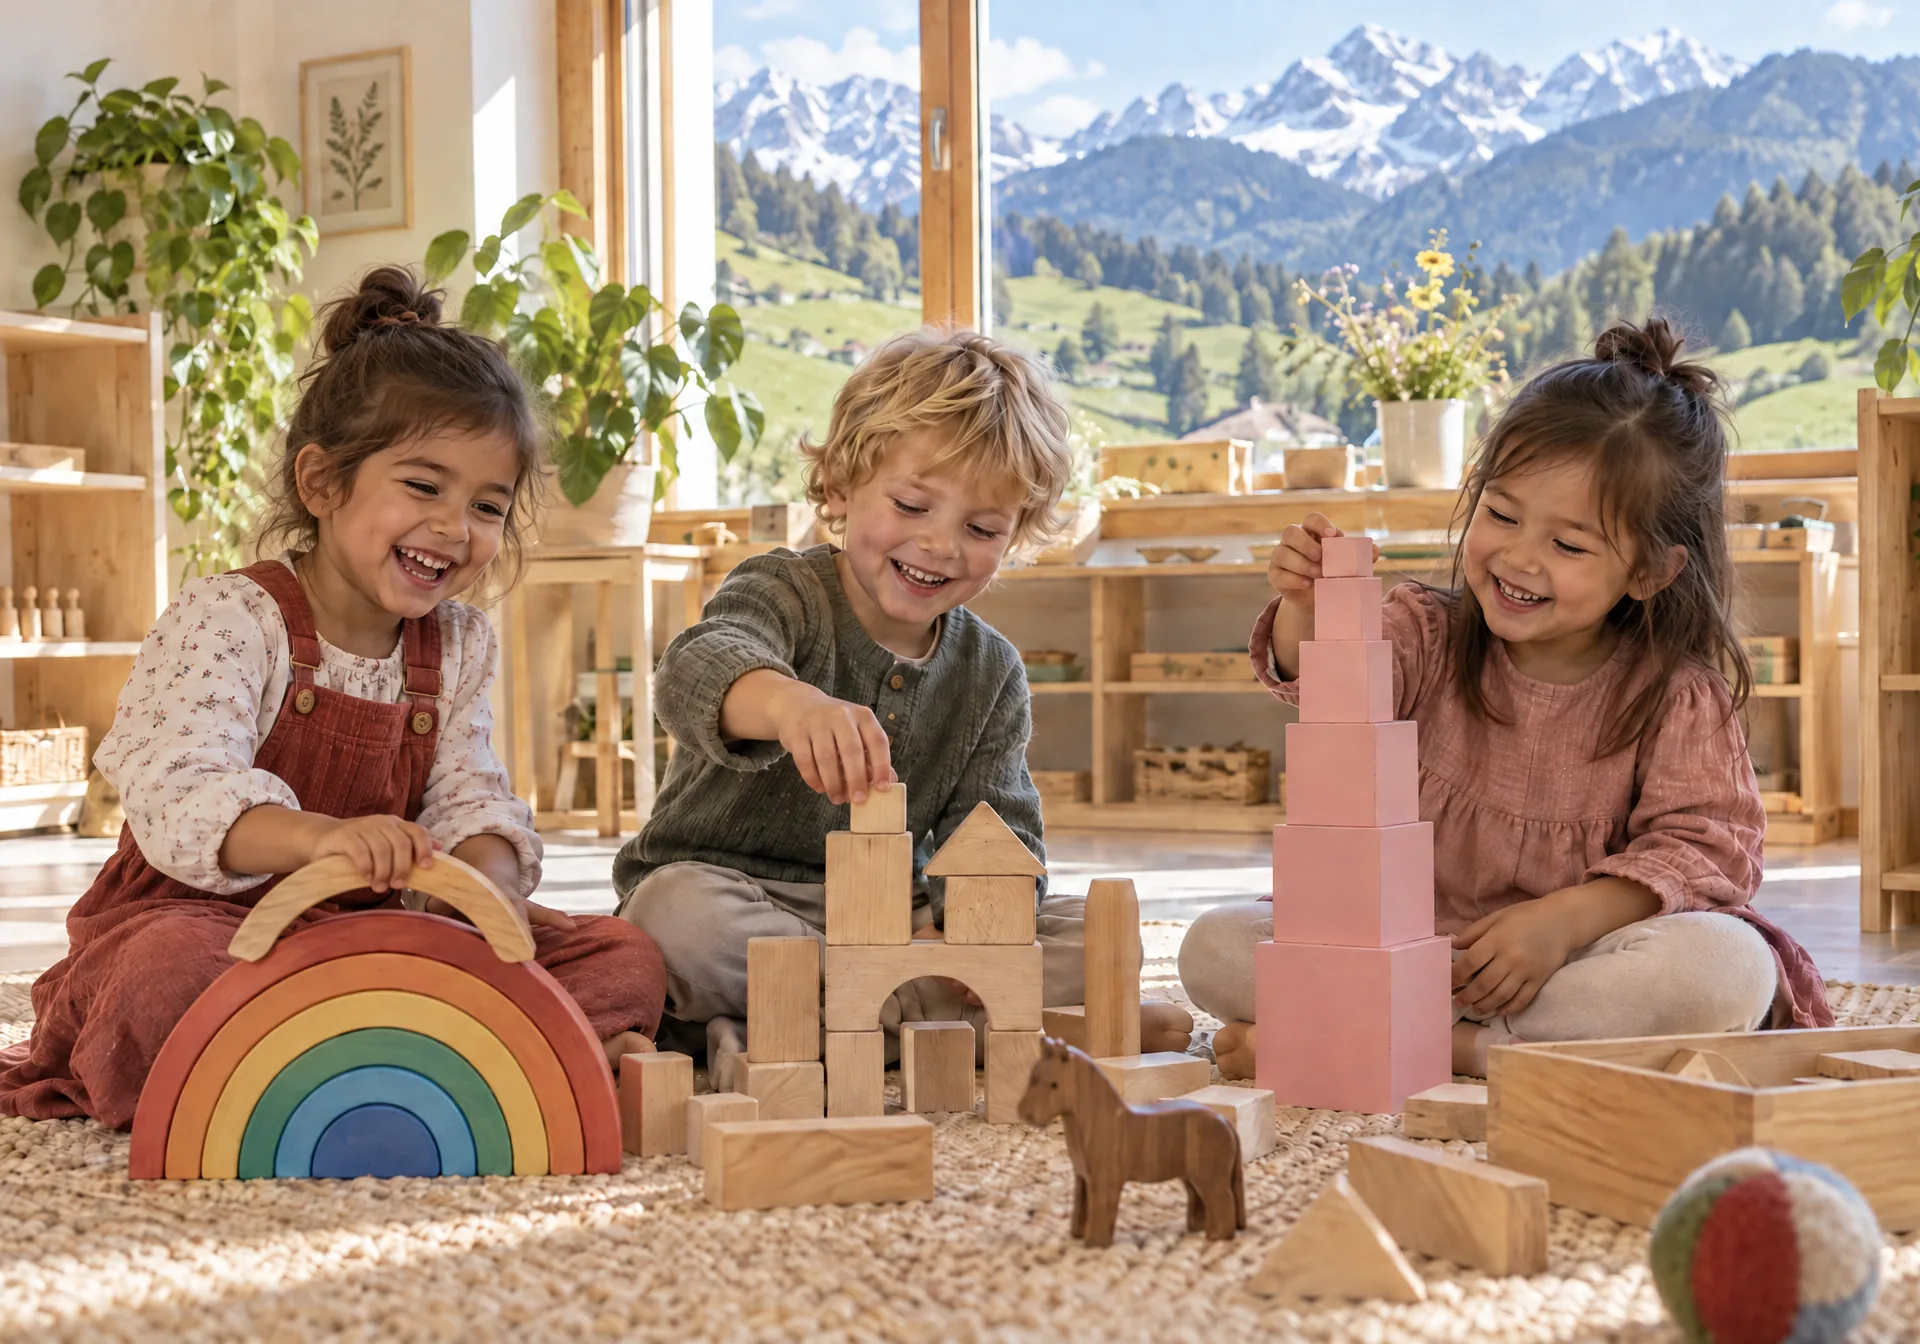
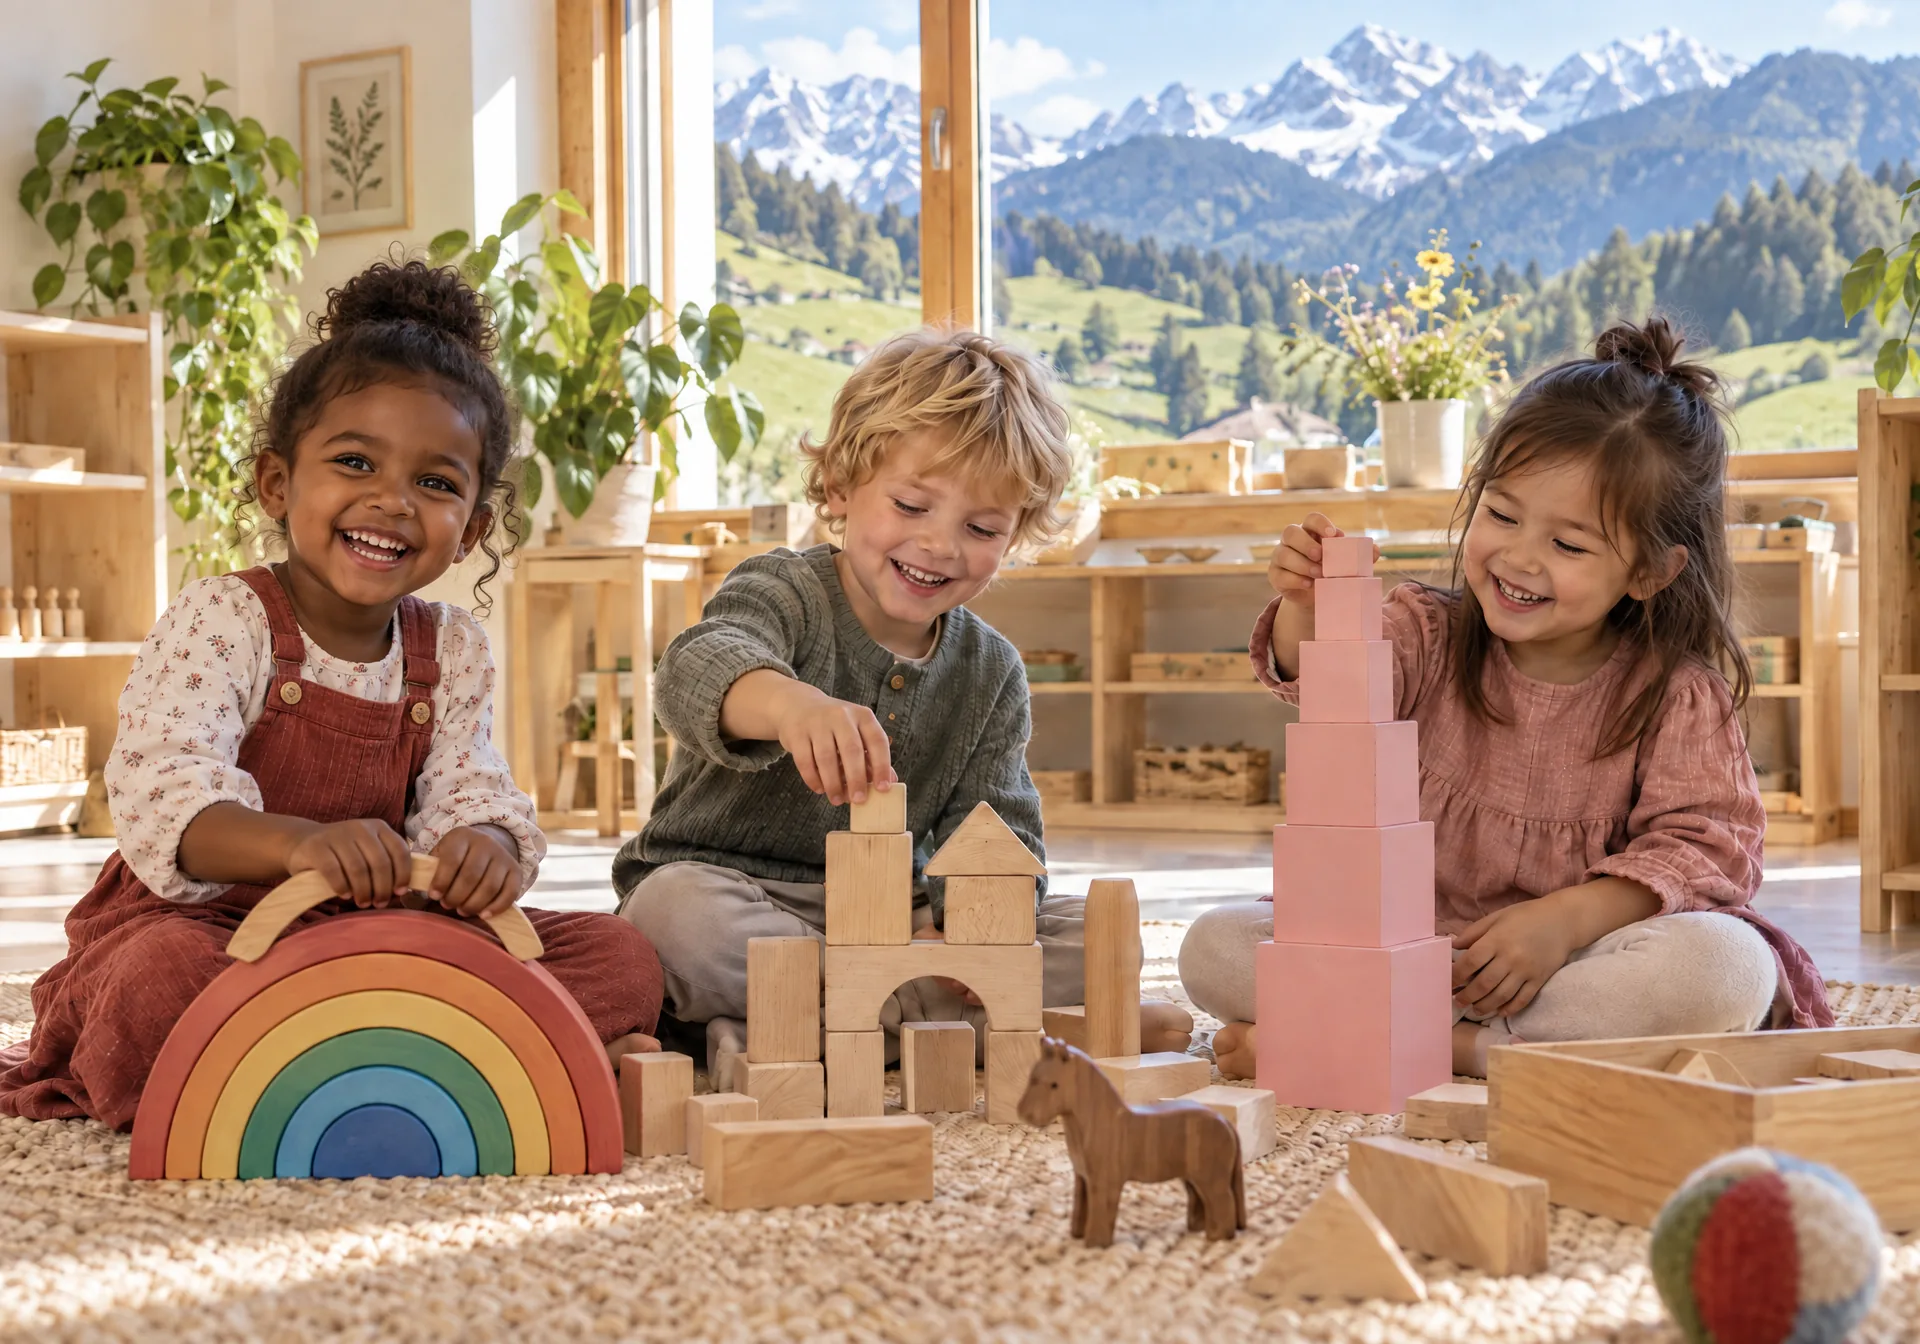
Hero-Bild: Mädchen links mit dunklerer Haut

diff --git a/docs/index.html b/docs/index.html
@@ -7,7 +7,7 @@
 <meta name="description" content="Staatlich anerkannter Montessori-Kindergarten in Schwangau: eine Gruppe, bis zu 25 Kinder von 3 bis 6 Jahren, getragen von einer Elterninitiative.">
 <meta property="og:title" content="Montessori Kinderhaus Schwangau">
 <meta property="og:description" content="»Hilf mir, es selbst zu tun.« Staatlich anerkannter Kindergarten am Ehberg in Schwangau.">
-<meta property="og:image" content="assets/img/hero-960.webp?v=0f224577">
+<meta property="og:image" content="assets/img/hero-960.webp?v=c0fde399">
 <meta name="theme-color" content="#fbf8f2">
 <link rel="icon" href="assets/favicon.svg" type="image/svg+xml">
 <link rel="preload" href="assets/fonts/fraunces.woff2" as="font" type="font/woff2" crossorigin>
@@ -56,7 +56,7 @@
       <div class="hero-media">
         <svg class="blob b1" viewBox="0 0 200 200" aria-hidden="true"><path fill="currentColor" d="M43-58C56-46 67-31 70-14 73 3 67 22 55 36 43 50 25 59 5 63-15 67-37 66-52 54-67 42-75 19-73-2-71-23-60-42-44-54-28-66-7-71 10-70 27-69 30-70 43-58Z" transform="translate(100 100)"/></svg>
         <svg class="blob b2" viewBox="0 0 200 200" aria-hidden="true"><path fill="currentColor" d="M50-61C63-49 69-30 70-12 71 6 67 24 56 39 45 54 27 66 7 70-13 74-35 70-50 57-65 44-73 22-72 1-71-20-61-40-46-52-31-64-15-68 3-71 21-74 37-73 50-61Z" transform="translate(100 100)"/></svg>
-        <img src="assets/img/hero.webp?v=dff5e3c2" srcset="assets/img/hero-960.webp?v=0f224577 960w, assets/img/hero.webp?v=dff5e3c2 1920w" sizes="(max-width: 1120px) 100vw, 1120px"
+        <img src="assets/img/hero.webp?v=98b57d81" srcset="assets/img/hero-960.webp?v=c0fde399 960w, assets/img/hero.webp?v=98b57d81 1920w" sizes="(max-width: 1120px) 100vw, 1120px"
              width="1920" height="1344" alt="Drei lachende Kinder sitzen auf einem Teppich und spielen mit einem Holzregenbogen, Bauklötzen und dem rosa Turm" fetchpriority="high">
       </div>
       <span class="eyebrow">Staatlich anerkannter Kindergarten in Schwangau</span>
